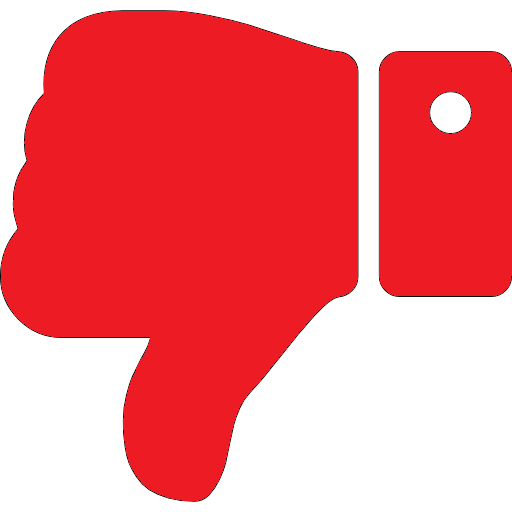
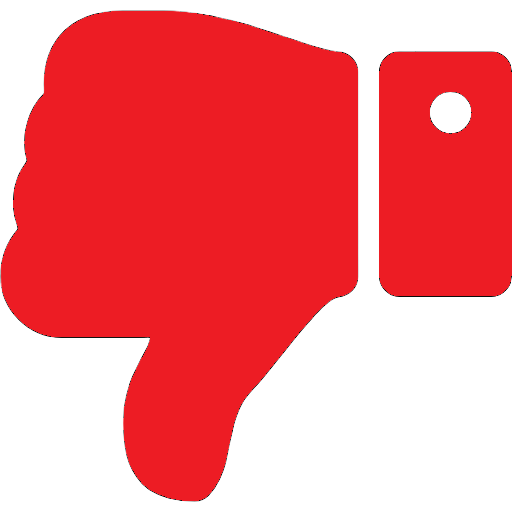
Added Dislike Button To HomePage Posts

diff --git a/frontend/src/components/Buttons/DislikeButton/DislikeButton.jsx b/frontend/src/components/Buttons/DislikeButton/DislikeButton.jsx
@@ -1,0 +1,34 @@
+import React, { useState } from 'react';
+import DislikeButtonImg from "../../../assets/Thumbs-Down.png"
+import DislikedButtonImg from "../../../assets/Thumbs-Down-Selected.png"
+import "./DislikeButton.css"
+
+const DislikeButton = (props) => {
+
+    const [dislikeValue, setDislikeValue] = useState(0);
+    const [dislikeImage, setDislikeImage] = useState(DislikeButtonImg);
+
+   
+
+    function dislikeButtonCall() {
+        console.log(props)
+        if (dislikeValue === 0) {
+            setDislikeValue(1);
+            setDislikeImage(DislikedButtonImg);
+            props.dislikeSong(props.id, 1);
+            // props.getAllSongs();
+
+        }  else if (dislikeValue == 1) {
+            setDislikeValue(0);
+            setDislikeImage(DislikeButtonImg);
+            props.dislikeSong(props.id, -1);
+            // props.getAllSongs();
+        }
+    }
+
+    return ( 
+        <img className='jump-shake'src={dislikeImage}  onClick={dislikeButtonCall}/>
+     );
+}
+ 
+export default DislikeButton;

diff --git a/frontend/src/pages/ProfilePage/ProfilePage.js b/frontend/src/pages/ProfilePage/ProfilePage.js
@@ -3,6 +3,7 @@ import useAuth from '../../hooks/useAuth';
 import LikeButton from "../../components/Buttons/LikeButton/LikeButton";
 import axios from 'axios';
 import '../ProfilePage/ProfilePage.css'
+import DislikeButton from '../../components/Buttons/DislikeButton/DislikeButton';
 
 const ProfilePage = (props) => {
    
@@ -79,6 +80,7 @@ const ProfilePage = (props) => {
                                     </div>
                                     <div className="container-post-dislikes-count">
                                         <p key={post.id}>Dislikes: {post.dislikes}</p>
+                                        <DislikeButton />
                                     </div>
                                 </div>
                             </div>

diff --git a/frontend/src/pages/HomePage/HomePage.js b/frontend/src/pages/HomePage/HomePage.js
@@ -5,6 +5,7 @@ import useAuth from "../../hooks/useAuth";
 import axios from "axios";
 import "../HomePage/HomePage.css"
 import LikeButton from "../../components/Buttons/LikeButton/LikeButton";
+import DislikeButton from "../../components/Buttons/DislikeButton/DislikeButton";
 
 const HomePage = (props) => {
   // The "user" value from this Hook contains the decoded logged in user information (username, first name, id)
@@ -73,6 +74,7 @@ const HomePage = (props) => {
               </div>
               <div className="container-post-dislikes-count">
                 <p key={post.id}>Dislikes: {post.dislikes}</p>
+                <DislikeButton />
               </div>
             </div>
           </div>

diff --git a/frontend/src/components/Buttons/DislikeButton/DislikeButton.css b/frontend/src/components/Buttons/DislikeButton/DislikeButton.css
@@ -1,0 +1,22 @@
+/* body {
+    background-color: rgb(32, 33, 36);
+} */
+
+img {
+    width: 40px;
+    margin-left: 10px;
+}
+
+img.jump-shake:hover {
+    animation: jump-shake 1s infinite;
+}
+
+@keyframes jump-shake {
+    0% { transform: translateX(0) }
+    25% { transform: translateY(-9px) }
+    35% { transform: translateY(-9px) rotate(17deg) }
+    55% { transform: translateY(-9px) rotate(-17deg) }
+    65% { transform: translateY(-9px) rotate(17deg) }
+    75% { transform: translateY(-9px) rotate(-17deg) }
+    100% { transform: translateY(0) rotate(0) }
+}

diff --git a/frontend/src/pages/ProfilePage/ProfilePage.css b/frontend/src/pages/ProfilePage/ProfilePage.css
@@ -14,3 +14,7 @@ body {
     align-items: center;
 
 }
+
+.container-post-dislikes-count {
+    display: flex;
+}
